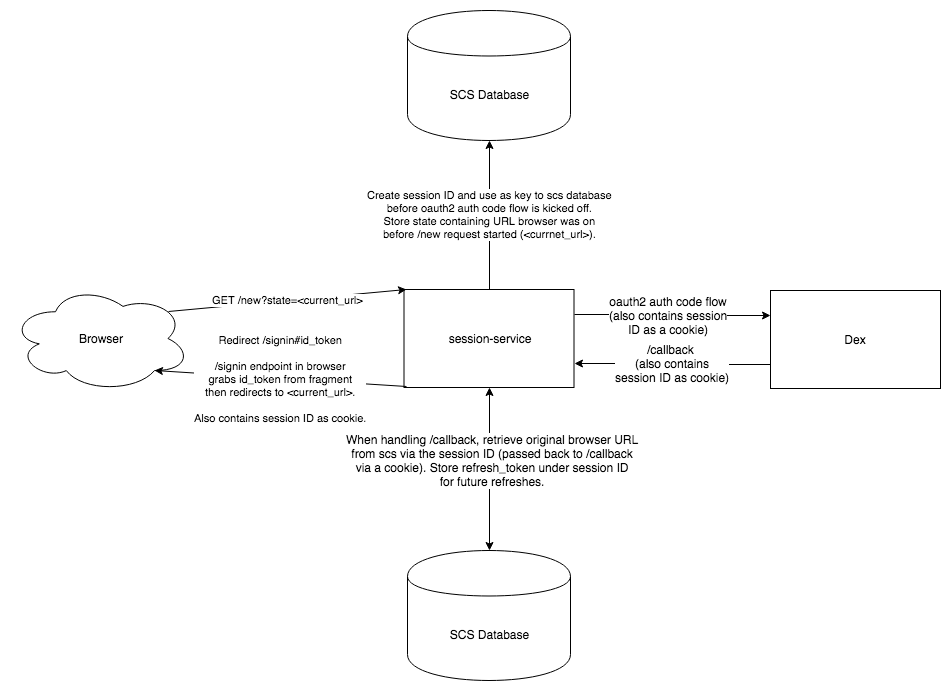
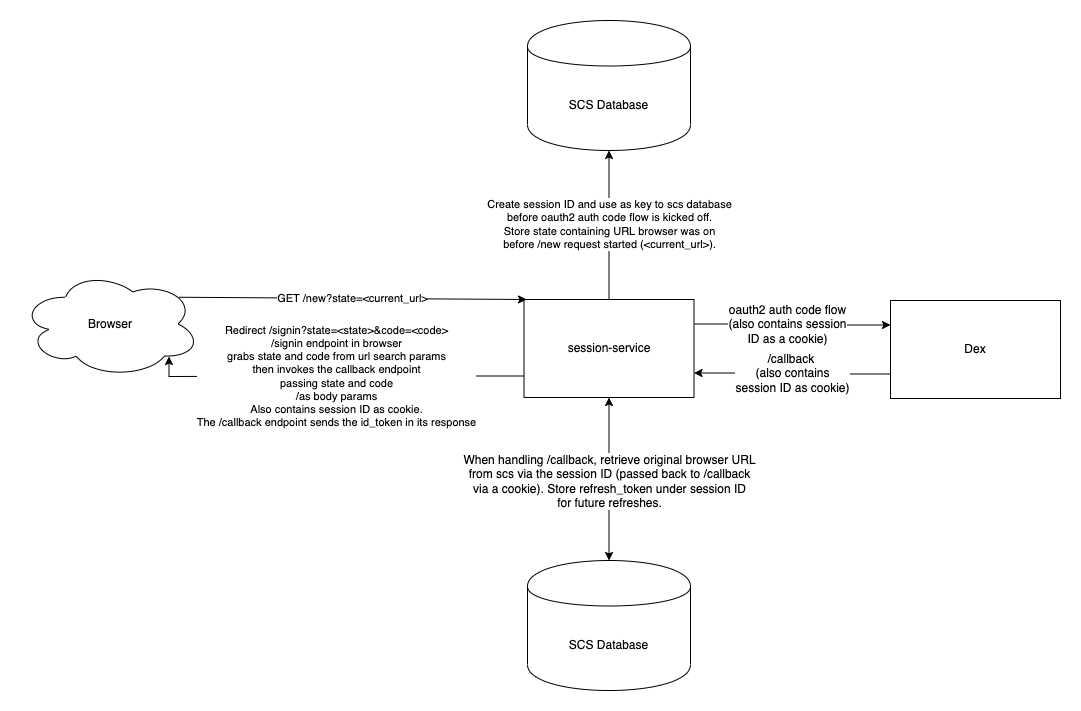
updated some diagrams and docs

diff --git a/components/session-service/README.md b/components/session-service/README.md
@@ -52,8 +52,9 @@ It's effective in the callback handler below.
 
 ### GET /callback
 
-OIDC callback handler; exchanges `code`, stores `refresh_token`, creates a session, redirects
-with `id_token` in URL fragment.
+Dex redirects to /signin route in browser which in turn calls the /callback endpoint.
+OIDC callback handler; exchanges `code`, stores `refresh_token`, creates a session, sends
+`id_token` as a json response.
 
 Diagram for /new -> /callback -> browser has session flow:
 
@@ -61,6 +62,7 @@ Diagram for /new -> /callback -> browser has session flow:
 
 #### `redirect_uri` provided
 
+Dex redirects to /signin route in browser which in turn calls the /callback endpoint.
 If the session data carries a `redirect_uri`, the callback handler slightly changes its
 behavior: it will generate a new `code`, associate the exchanged `id_token` with it, and
 redirect the browser to the Builder Signin URL as configured with session-service.
